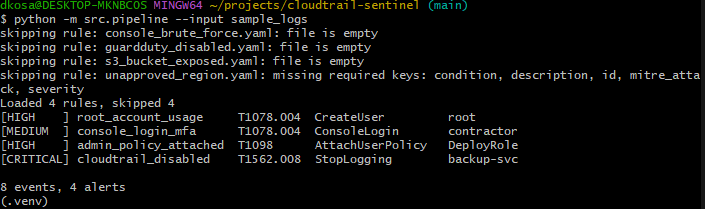
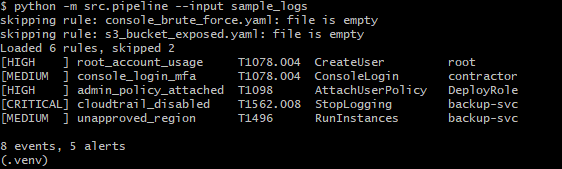
Add guardduty_disabled rule, update README for six implemented rules

diff --git a/README.md b/README.md
@@ -9,11 +9,11 @@ Built to explore cloud detection engineering: how attacks against cloud
 identity and infrastructure become visible in logs, and how detection
 logic is written, tested, and validated.
 
-**Status:** Phase 1 complete. Phase 2 in progress: four of the eight
+**Status:** Phase 1 complete. Phase 2 in progress: six of the eight
 detection rules are implemented as YAML mapped to MITRE ATT&CK, a rule
 loader validates them, and a stateless evaluation engine matches them
 against normalised events and raises alerts, which the pipeline prints.
-Unit tests, the four remaining rules, persistence and the dashboard are
+Unit tests, the two remaining rules, persistence and the dashboard are
 not built yet. See [Roadmap](#roadmap) for the exact breakdown and
 [Quick Start](#quick-start) to run what exists.
 
@@ -102,10 +102,10 @@ this iteration.
 
 ## Detections
 
-> **Partially implemented.** The first four rules below exist as YAML
+> **Partially implemented.** Six of the rules below exist as YAML
 > under `rules/`, each mapped to a MITRE ATT&CK technique. The rule
 > loader validates them and the evaluation engine runs them against
-> events. The remaining four rules are still only specified; their
+> events. The remaining two rules are still only specified; their
 > placeholder files in `rules/` are skipped with a warning at load time.
 > Progress is tracked in the [Roadmap](#roadmap).
 
@@ -117,18 +117,18 @@ ATT&CK technique and covered by unit tests (not yet written).
 | Root account usage | T1078.004 | High | Any API call where identity type is Root | Implemented |
 | Console login without MFA | T1078.004 | Medium | Successful ConsoleLogin with MFAUsed = No | Implemented |
 | CloudTrail disabled or deleted | T1562.008 | Critical | StopLogging or DeleteTrail | Implemented |
-| GuardDuty detector disabled | T1562.001 | Critical | DeleteDetector or UpdateDetector to disabled | Planned |
+| GuardDuty detector disabled | T1562.001 | Critical | DeleteDetector (the UpdateDetector-to-disabled variant is not yet covered) | Implemented |
 | Admin policy attached to user | T1098 | High | AttachUserPolicy granting AdministratorAccess | Implemented |
 | S3 bucket exposed publicly | T1530 | High | PutBucketPolicy or PutBucketAcl granting public access | Planned |
 | Console brute force | T1110 | Medium | 5 or more failed ConsoleLogin from one source IP within 10 minutes | Planned |
-| Activity in unapproved region | T1496 | Medium | RunInstances outside the configured region allowlist | Planned |
+| Activity in unapproved region | T1496 | Medium | RunInstances outside the configured region allowlist | Implemented |
 
 "Implemented" means the YAML file exists under `rules/` with a finished
 condition and the engine evaluates it. A failed login does not trigger
 the MFA rule: MFA is never reached when the password step fails, so
 alerting on it would be noise. See
 [Detection rules](#current-implementation) under Current Implementation
-for the schema those four files use.
+for the schema those files use.
 
 Full rule documentation, including tuning notes and known false positive
 sources, will be maintained in `docs/detections.md` (not yet written).
@@ -166,16 +166,17 @@ API call, actor), then a summary:
 [MEDIUM  ] console_login_mfa      T1078.004  ConsoleLogin       contractor
 [HIGH    ] admin_policy_attached  T1098      AttachUserPolicy   DeployRole
 [CRITICAL] cloudtrail_disabled    T1562.008  StopLogging        backup-svc
+[MEDIUM  ] unapproved_region      T1496      RunInstances       backup-svc
 
-8 events, 4 alerts
+8 events, 5 alerts
 ```
 
-Before the alerts, the loader prints a warning for each of the four
-placeholder rule files it skips, followed by `Loaded 4 rules, skipped 4`.
+Before the alerts, the loader prints a warning for each of the two
+placeholder rule files it skips, followed by `Loaded 6 rules, skipped 2`.
 Skipping broken rules loudly rather than silently is deliberate: a rule
 that fails to load is a detection gap.
 
-![Pipeline output showing four alerts raised from eight sample events](docs/images/alerts_output.png)
+![Pipeline output showing five alerts raised from eight sample events](docs/images/alerts_output.png)
 
 Persistence and the dashboard arrive in Phase 3. Docker packaging
 arrives with them.
@@ -283,18 +284,20 @@ before 09:14). Real CloudTrail delivery does not guarantee ordering
 either. The stateful brute force rule will need to sort by timestamp
 rather than trust file order.
 
-**Detection rules** (`rules/`, in progress) - four of the eight planned
+**Detection rules** (`rules/`, in progress) - six of the eight planned
 rules are implemented as YAML: root account usage, console login without MFA,
-CloudTrail disabled or deleted, and admin policy attached. Each rule is
+CloudTrail disabled or deleted, admin policy attached, GuardDuty detector
+deleted, and activity in an unapproved region. Each rule is
 a mapping with five keys: `id` (a stable identifier, independent of the
 filename), `description` (analyst-facing text), `mitre_attack`,
 `severity`, and `condition` (the actual match logic).
 
 `condition` is a mapping of `NormalisedEvent` field names to required
 values. Every key at that level is ANDed together; a list value means
-"one of these" rather than a single required value. Three of the four
-rules read directly off the normalised schema. The fourth - admin
-policy attached - has to reach past it: which policy got attached only
+"one of these" rather than a single required value; `not_in: [...]`
+means "anything except these", which the region rule uses as an
+allowlist. Most rules read directly off the normalised schema. One -
+admin policy attached - has to reach past it: which policy got attached only
 ever appears in `event.raw["requestParameters"]["policyArn"]`, since
 request parameters vary per API call in a way the fixed sixteen-field
 schema does not cover. That rule's condition key is written as a
@@ -327,7 +330,9 @@ bracket paths into the raw record such as
 `raw[requestParameters][policyArn]`, and returns `None` instead of
 failing when part of the path is missing. `matches` returns true only if
 every line of a rule's `condition` holds: a single value must be equal,
-and a list means "one of these". Comparison is deliberately strict, so an
+a list means "one of these", and `not_in` means "none of these" (used for
+the region allowlist). An unknown operator raises an error rather than
+silently never matching. Comparison is deliberately strict, so an
 event whose `mfa_used` is unknown (`None`) does not match a rule that
 looks for `mfa_used: false`. `evaluate` runs every event against every
 rule and returns a list of `Alert` objects, each carrying the rule id,
@@ -348,7 +353,7 @@ cloudtrail-sentinel/
 |   +-- detect/          Rule loading and evaluation engine      [loader, engine done]
 |   +-- dashboard/       Streamlit interface                     [phase 3]
 |
-+-- rules/               YAML detection rules          [phase 2, 4 of 8 written]
++-- rules/               YAML detection rules          [phase 2, 6 of 8 written]
 +-- tests/               One positive and one negative per rule  [phase 2]
 +-- sample_logs/         Sanitised CloudTrail events             [done]
 +-- simulate/            Attack simulation scripts               [phase 4]
@@ -379,11 +384,12 @@ cloudtrail-sentinel/
 - [x] YAML rule loader with validation (single file)
 - [x] Load full `rules/` directory (skip-and-warn, strict mode)
 - [x] Stateless rule evaluation and alerts, wired into the pipeline
+- [x] `not_in` operator, plus GuardDuty and unapproved-region rules
 - [ ] Unit tests and CI pipeline
 
 **Phase 3 - Storage and interface**
 - [ ] DuckDB persistence for events and alerts
-- [ ] Remaining four rules, including stateful brute force detection
+- [ ] Remaining two rules: S3 bucket exposed and stateful brute force detection
 - [ ] Streamlit dashboard with alert detail and ATT&CK coverage view
 
 **Phase 4 - Live validation**
